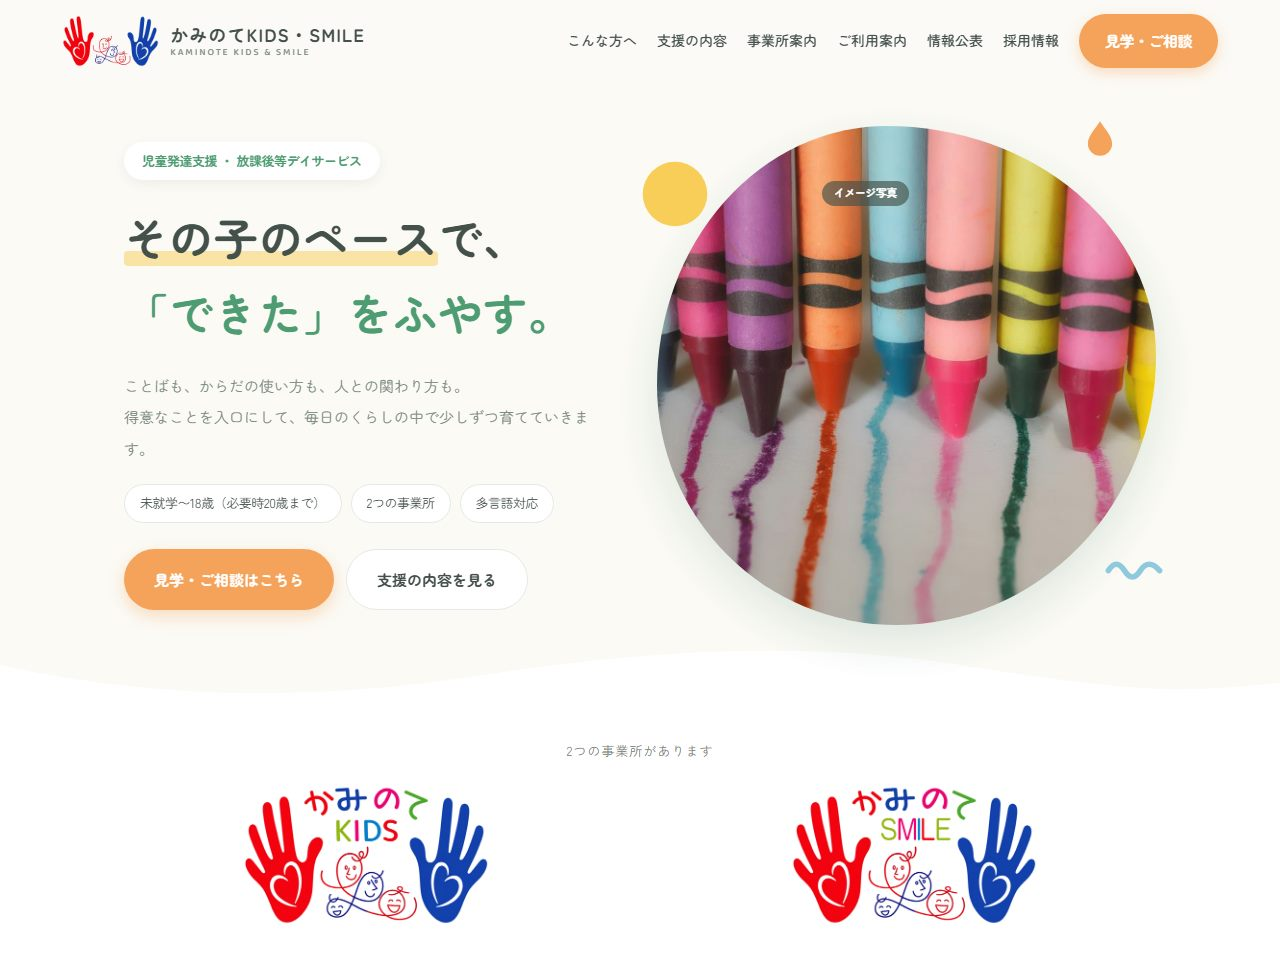
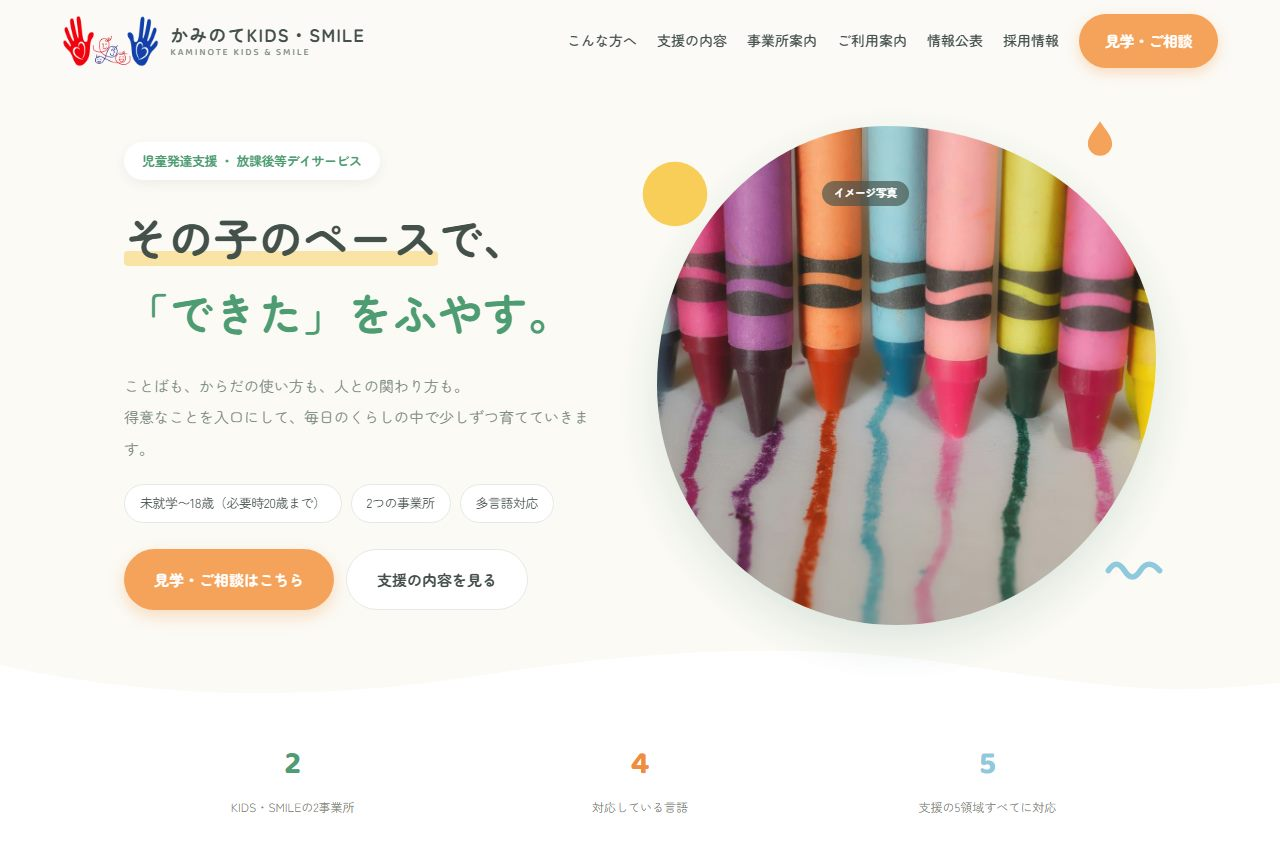
案Bのキャプチャを、ロゴ帯を外した状態に更新する

diff --git a/design.html b/design.html
@@ -629,7 +629,7 @@
       <strong>支援プログラム・自己評価・保護者評価の公表欄</strong>も3案とも入れてあります。
       保育園サイトと同じ案（AならA）でそろえると、2つのサイトが並んだときにいちばん統一して見えます。</p>
 
-      <p style="margin:0 0 1.4rem">いただいた<strong>かみのてKIDS・かみのてSMILEのロゴ</strong>も、トップに対で並べています。
+      <p style="margin:0 0 1.4rem">いただいた<strong>かみのてKIDS・かみのてSMILEのロゴ</strong>も、3案とも使っています。
       写真はいずれも見本です。取材時に撮影したお写真へ差し替えます。</p>
 
       <div class="mock">
@@ -650,7 +650,7 @@
           <span class="mock-tone">やわらかい曲線</span>
         </div>
         <a class="shot" href="https://k-matsumoto527.github.io/kaminote-day-design/plan-b.html" target="_blank" rel="noopener">
-          <img src="img/preview-day-b.jpg" alt="放課後等デイサイト トップページ デザイン案B" width="1280" height="965" loading="lazy">
+          <img src="img/preview-day-b.jpg" alt="放課後等デイサイト トップページ デザイン案B" width="1280" height="860" loading="lazy">
         </a>
         <a class="open-btn" href="https://k-matsumoto527.github.io/kaminote-day-design/plan-b.html" target="_blank" rel="noopener">実物を見る</a>
         <div class="open-url">https://k-matsumoto527.github.io/kaminote-day-design/plan-b.html</div>

diff --git a/src/design-kaminote.html b/src/design-kaminote.html
@@ -606,7 +606,7 @@
       <strong>支援プログラム・自己評価・保護者評価の公表欄</strong>も3案とも入れてあります。
       保育園サイトと同じ案（AならA）でそろえると、2つのサイトが並んだときにいちばん統一して見えます。</p>
 
-      <p style="margin:0 0 1.4rem">いただいた<strong>かみのてKIDS・かみのてSMILEのロゴ</strong>も、トップに対で並べています。
+      <p style="margin:0 0 1.4rem">いただいた<strong>かみのてKIDS・かみのてSMILEのロゴ</strong>も、3案とも使っています。
       写真はいずれも見本です。取材時に撮影したお写真へ差し替えます。</p>
 
       <div class="mock">
@@ -627,7 +627,7 @@
           <span class="mock-tone">やわらかい曲線</span>
         </div>
         <a class="shot" href="https://k-matsumoto527.github.io/kaminote-day-design/plan-b.html" target="_blank" rel="noopener">
-          <img src="img/preview-day-b.jpg" alt="放課後等デイサイト トップページ デザイン案B" width="1280" height="965" loading="lazy">
+          <img src="img/preview-day-b.jpg" alt="放課後等デイサイト トップページ デザイン案B" width="1280" height="860" loading="lazy">
         </a>
         <a class="open-btn" href="https://k-matsumoto527.github.io/kaminote-day-design/plan-b.html" target="_blank" rel="noopener">実物を見る</a>
         <div class="open-url">https://k-matsumoto527.github.io/kaminote-day-design/plan-b.html</div>
